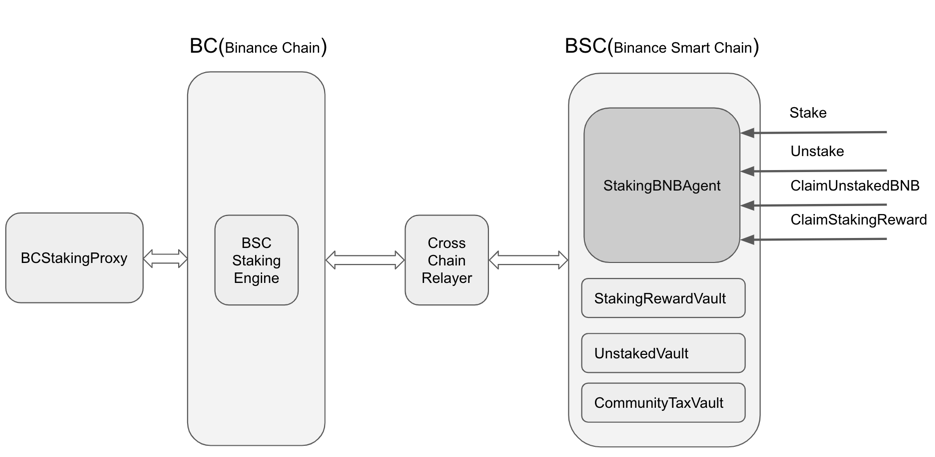
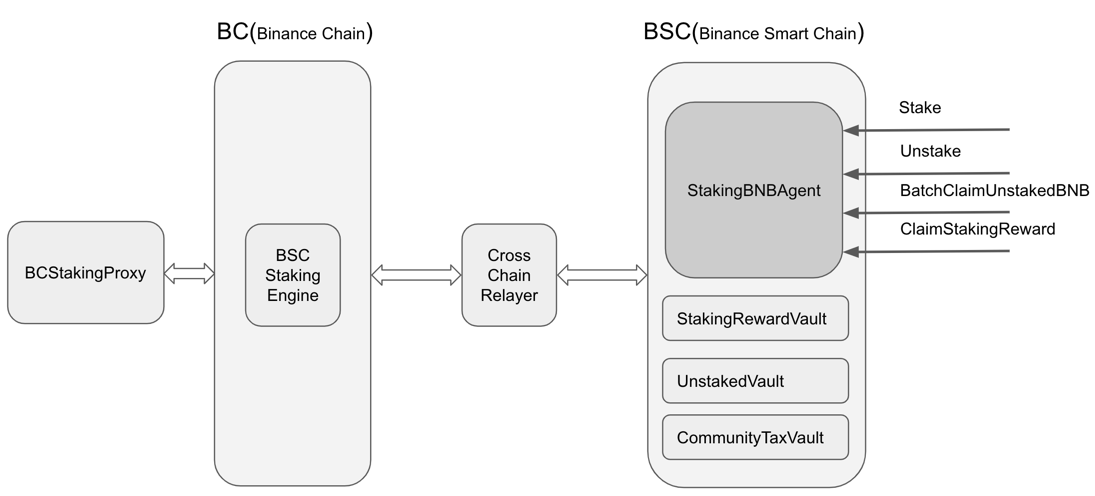
update docs

Changed region(s): [[0.0, 0.0306, 1.0, 1.0]]

diff --git a/docs/Staking.md b/docs/Staking.md
@@ -2,7 +2,7 @@
 
 ## Introduction about Native BSC(Binance Smart Chain) Staking Mechanism
 
-The staking engine for BSC is on BC(Binance Chain). BSC users have to transfer their BNB to their BC wallets first. Then they can send staking transactions from their BC wallets. At each UTC 00:00, the BSC staking engine will distribute the previous received validator reward to all validator and delegators. Besides, according to the staking snapshot at UTC 00:00, the BSC staking engine will generate a cross chain package which specify all qualified BSC validators. Once the cross chain package is delivered on BSC, BSC will transfer the accumulated validator rewards back to BC and apply new validator set.
+The staking engine for BSC is on BC(Binance Chain). BSC's users have to transfer their BNB to their BC wallets first. Then they can send staking transactions from their BC wallets. At each UTC 00:00, the BSC staking engine will distribute the previous received validator reward to all validator and delegators. Besides, according to the staking snapshot at UTC 00:00, the BSC staking engine will generate a cross chain package which specify all qualified BSC validators. Once the cross chain package is delivered on BSC, BSC will transfer the accumulated validator rewards back to BC and apply new validator set.
 
 ## Characteristics of Native BSC Staking Mechanism
 
@@ -40,13 +40,15 @@ StakingBNB is a DeFi platform which can provide better staking BNB service than 
 
 #### Methods
 
-1. `stake`: Stake BNB to get SBNB(Staking BNB Token)
+1. `stake`: Stake BNB to get LBNB
 
-2. `unstake`: Burn SBNB(Staking BNB Token) to get BNB. Users can't get staked BNB immediately. Users have to wait for there is enough BNB in unstakedBNBVault.
+2. `unstake`: Burn LBNB to get BNB. Users can't get staked BNB immediately. Only a pending unstake will be created and insert into a queue. Users have to wait for there is enough BNB in `unstakedBNBVault`.
 
-3. `claimUnstakedBNB`: Once there is enough BNB in unstakedBNBVault, anyone can call this method to claim unstaked BNB.
+3. `accelerateUnstakedMature`: All pending unstakes are inserted into a queue. Only after all prior unstakes are fulfilled by the `unstakedBNBVault`, then current one can be claimed. This method can be used to move current unstake to the prior position. During this process, some SKB token from user wallet will be burned and the burn amount is proportional to the unstaked amount.
+   
+4. `batchClaimUnstakedBNB`: Once there is enough BNB in unstakedBNBVault, anyone can call this method to claim unstaked BNB.
 
-4. `claimStakingReward`: Claim staking reward. 
+5. `claimStakingReward`: Claim staking reward. 
 
 #### BCStakingProxy
 
@@ -56,9 +58,9 @@ StakingBNB is a DeFi platform which can provide better staking BNB service than 
 2. All staked BNB will be transferred to the TSS account by cross chain transfer.
 3. It collects all stake and unstake event from StakingBNBAgent contract.
 4. It will send stake or unstake transactions to BC(Binance Chain) at snapshot period(will be introduced later) from the TSS account. Suppose the total stake amount is 100:BNB and the total unstake amount is 50:BNB, the only 50:BNB will be staked. And the rest of them will be transferred to `UnstakedVault` by cross chain transfer.
-5. It will take a snapshot of SBNB(Staking BNB Token) at first height in snapshot period, which is the basement of staking reward calculation.
-6. During calculate staking reward period(will be introduced later), it will transfer received staking reward to `StakingRewardVault` and transfer matured unstaked BNB `StakingRewardVault`. Not all staking reward will be distributed to users. 1% of them will be left for staking transaction fee and cross chain fee, and 4% will be transferred to `CommunityTaxVault`.
-7. During calculate staking reward period, it will also calculate reward for all stakers and write the reward amounts to `StakingBNBAgent` contract. If a staker reward is less than 0.01:BNB, then the reward won't be write into `StakingBNBAgent` contract. The tiny reward won't be just lost, BCStakingProxy will accumulate the reward for all tiny users.
+5. It will take a snapshot of LBNB(Staking BNB Token) at first height in snapshot period, which is the basement of staking reward calculation.
+6. After UTC 00:00, it will transfer received staking reward to `StakingRewardVault` and transfer matured unstaked BNB to `StakingRewardVault`. Not all staking reward will be distributed to users. 1% of them will be left for staking transaction fee and cross chain fee, and 4% will be transferred to `CommunityTaxVault`.
+7. It will also calculate reward for all stakers and write the reward amounts to `StakingBNBAgent` contract. 
 
 #### Vaults
 
@@ -72,19 +74,17 @@ StakingBNB is a DeFi platform which can provide better staking BNB service than 
 
 ![img](./img/period.png)
 
-1. `Breathe Period`: BC will do some liquidation task at UTC 00:00, `StakingBNBAgent` will reject any operation in this period.
+1. `Breathe Period`: BC will do some liquidation task at UTC 00:00, `StakingBNBAgent` will reject any users' operations in this period.
 
-2. `Calculate Staking Reward Period`: The TSS account of `BCStakingProxy` will receive staking reward and matured unstaked BNB. `BCStakingProxy` will calculate reward to all stakers and transfer staking rewards to `StakingRewardVault`(95%) and `CommunityTaxVault`(4%). The rest 1% will be left for transactions fee and relay fee. The matured unstaked BNB will be transferred to `UnstakedVault`.
+2. `Normal Period`: Users are fee to call methods: `stake`, `unstake`, `accelerateUnstakedMature`, `batchClaimUnstakedBNB` and `claimStakingReward`.
 
-3. `Normal Period`: Users are fee to call methods: `stake`, `unstake`, `claimUnstakedBNB` and `claimStakingReward`.
-
-4. `Snapshot SBNB Period`: `BCStakingProxy` will take a snapshot for SBNB holders at the first height of this period. Besides, `BCStakingProxy` will do stake, unstake and restake(redelegate) to achieve better APY.
+3. `Snapshot LBNB Period`: `StakingBNBAgent` will reject any users' operations in this period. `BCStakingProxy` will take a snapshot for LBNB holders at the first height of this period. Then, `BCStakingProxy` will do stake, unstake and restake(redelegate) to achieve better APY.
 
 ### Characteristics
 
 #### Liquidity
 
-   After staking BNB, users will get equivalent amount SBNB. SBNB can be used in other defi platforms. We will also provide a mine pool. Users can stake their SBNB to get governence token.
+   After staking BNB, users will get an equivalent amount LBNB. LBNB can be used in other defi platforms. We will also provide a mine pool. Users can stake their LBNB to get governence token.
 
 #### Quick unstake
 
@@ -93,6 +93,16 @@ StakingBNB is a DeFi platform which can provide better staking BNB service than 
 #### APY
 
    `BCStakingProxy` will monitor all validator changes, analysis the changes and dynamically calibrate staking strategy to achieve better APY.
+
+## Token Economic
+
+### LBNB
+
+Users stake BNB and get LBNB back. The swap pair for LBNB and BNB will be created on Pancake swap. User can add liquidity to the swap pair to get related lp token. The stake the lp token on our platform to earn SKB.
+
+### SKB
+
+SKB token is the governance token for our platform. Users hold this token can vote the proposals. The accumulated BNB in `communityTaxVault` will be used to buy SKB and burn. Besides, SKB can be used in calling `accelerateUnstakedMature`. 
 
 ## Roadmap
 
